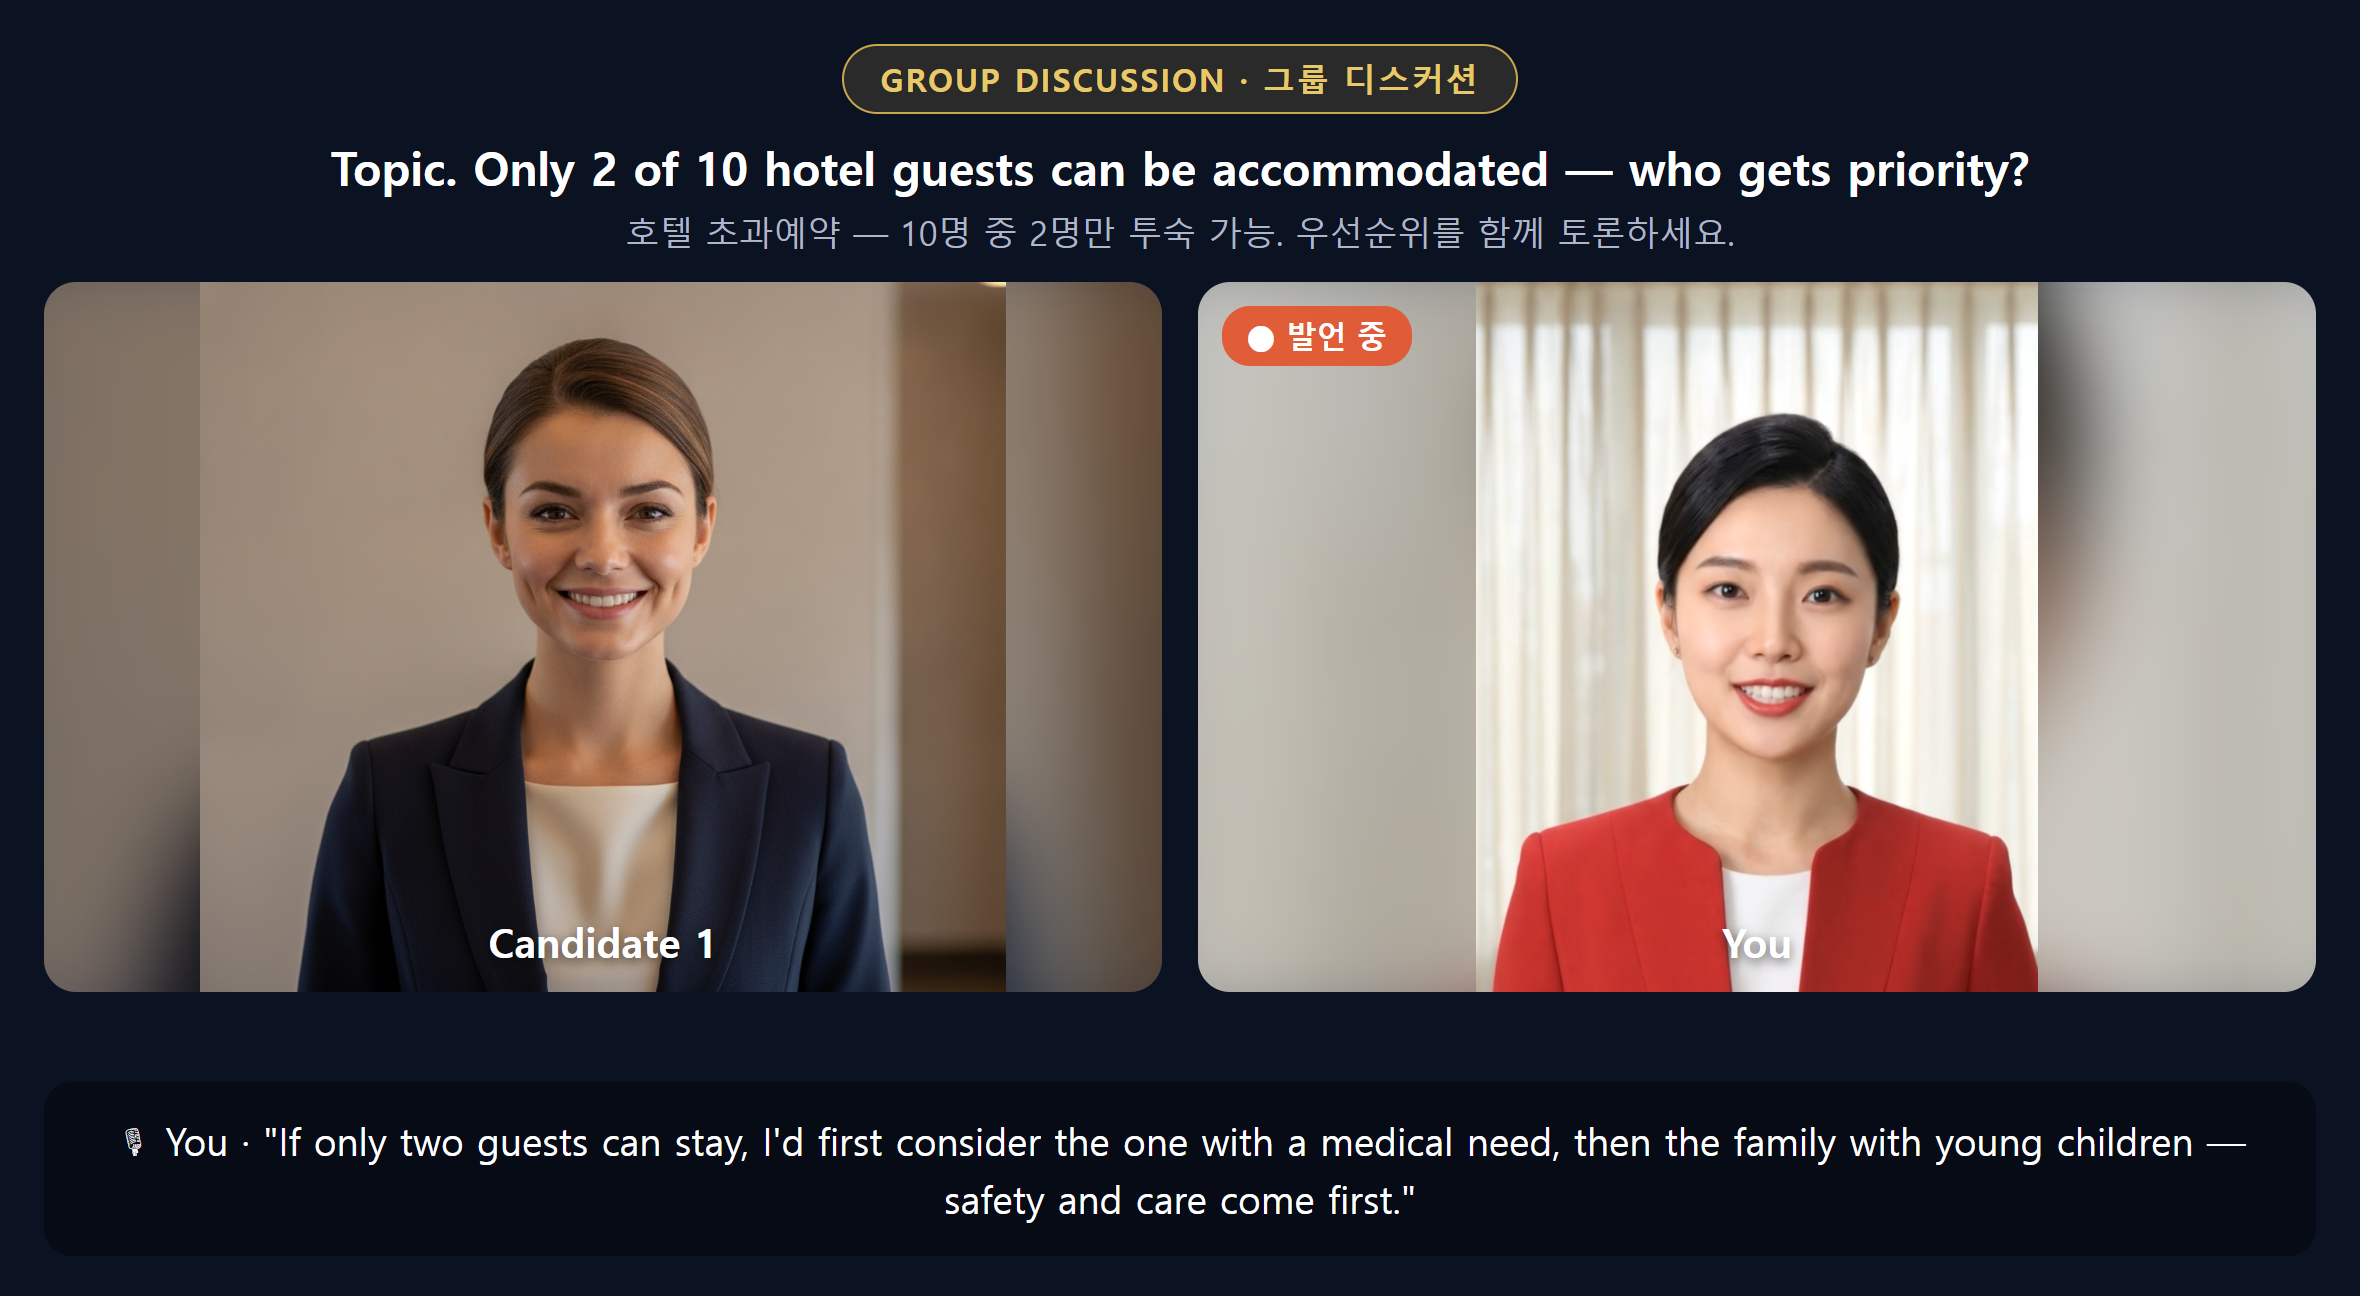
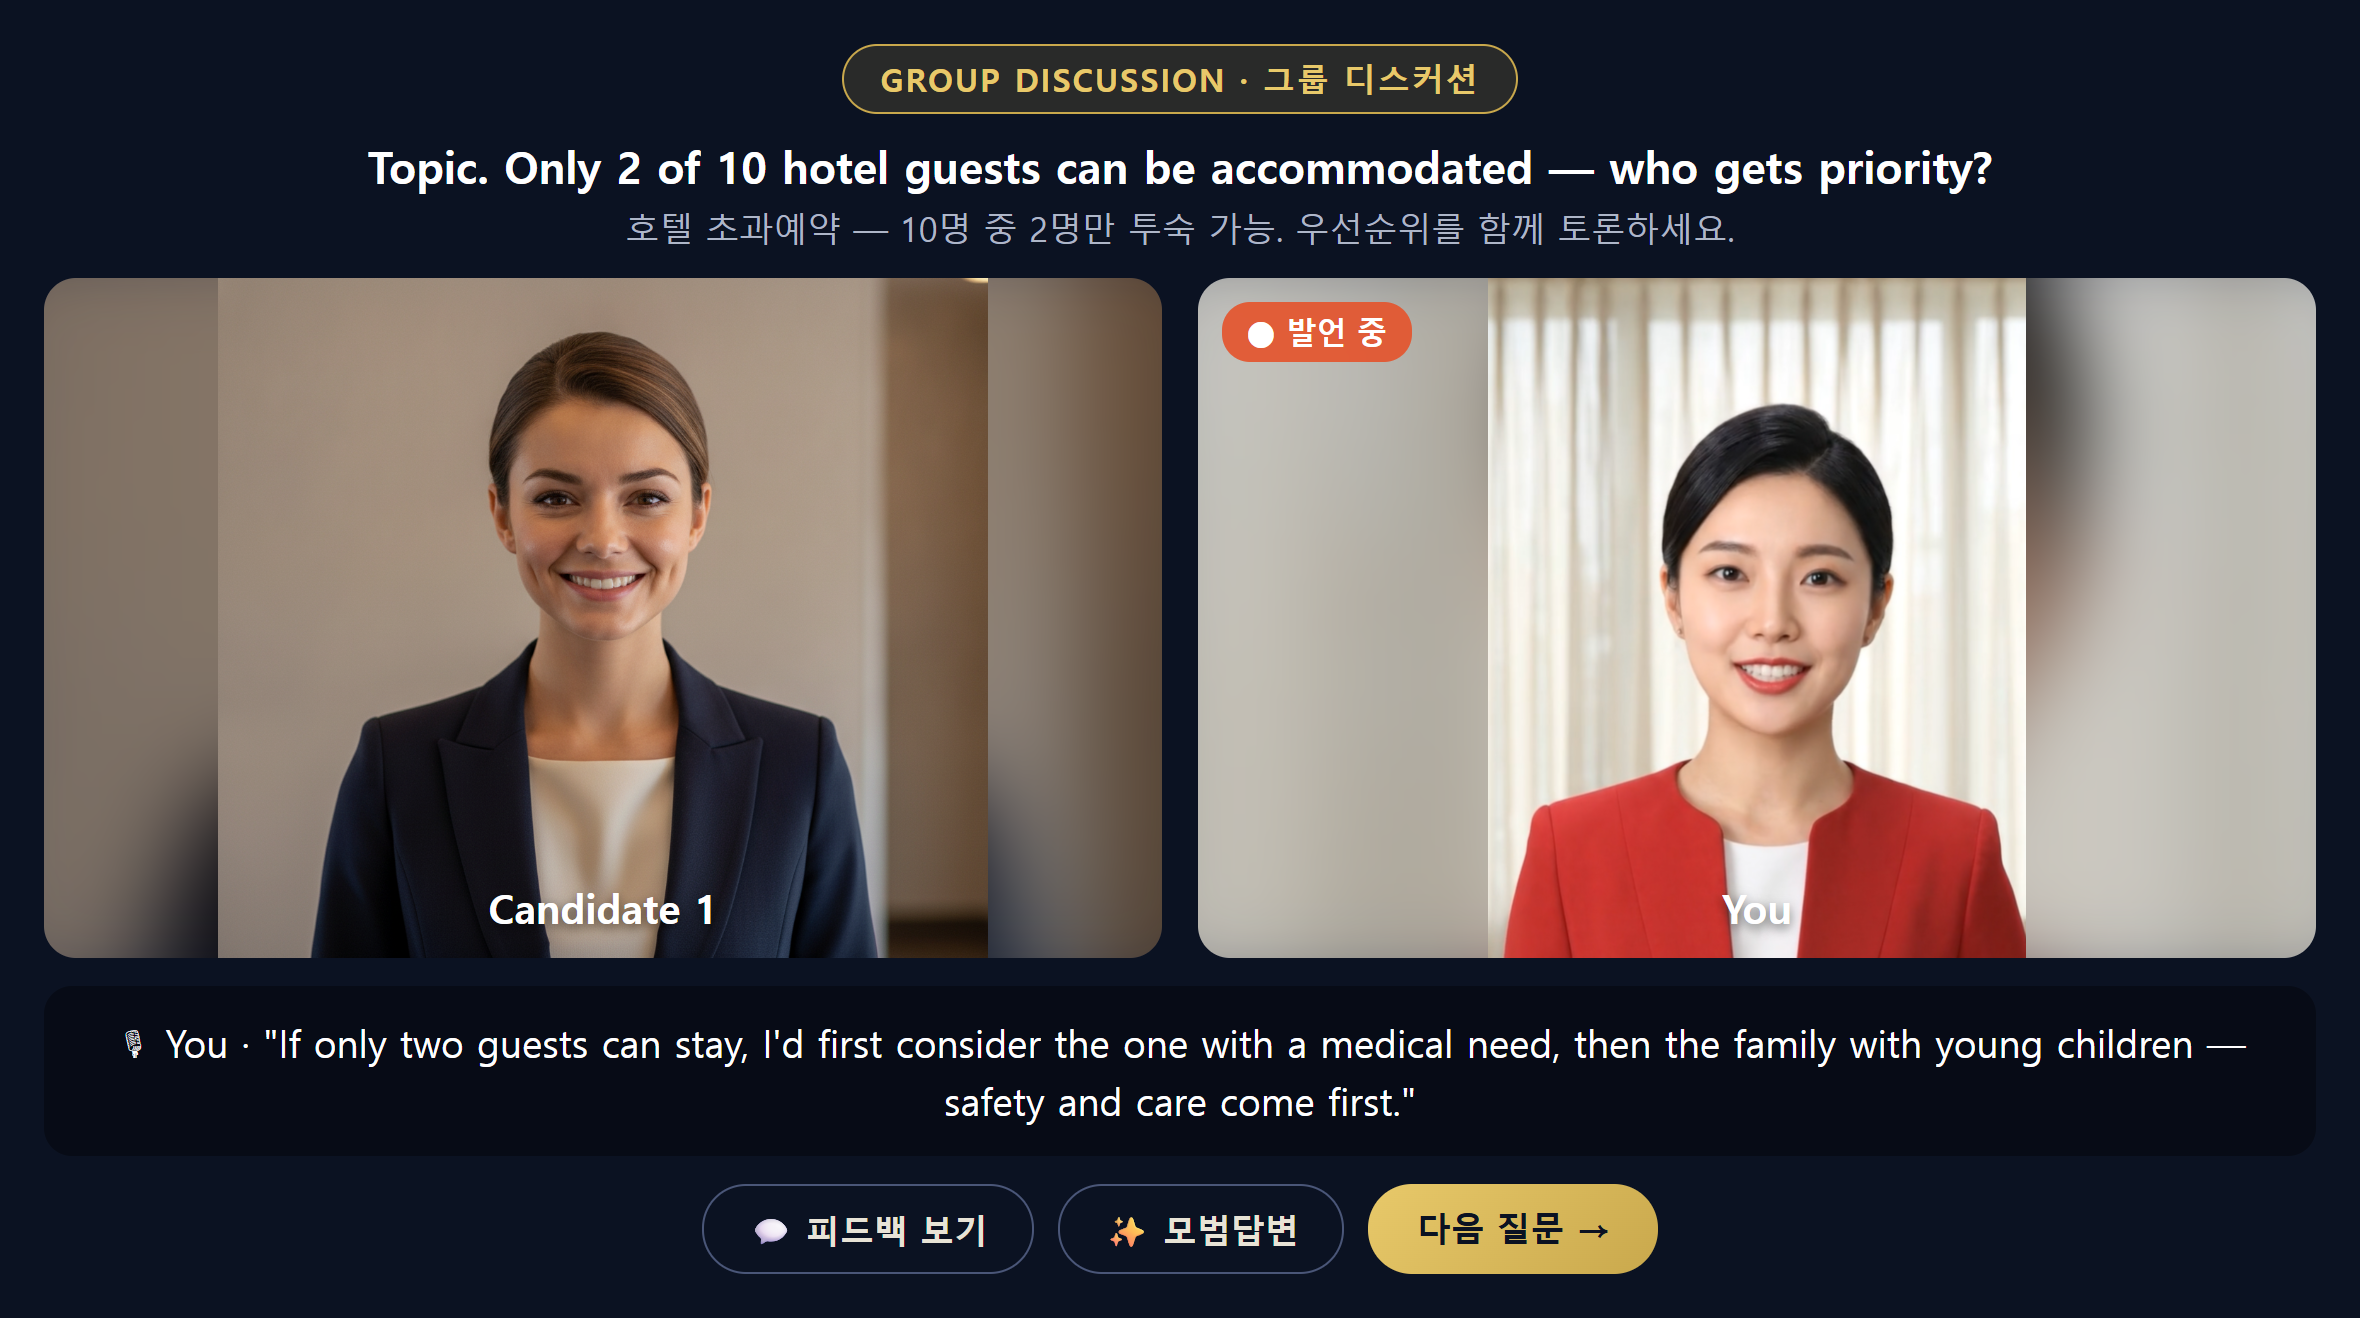
파이널 You 블러로 축소(면접관 얼굴과 크기 맞춤, 면접관 사진·프레임은 그대로) · 화면에 피드백보기·모범답변·다음질문 버튼 추가 · 랜딩 새로고침 상단고정 · 합격생 이야기 후기 3개 추가

Changed region(s): [[0.0, 0.0926, 0.9898, 0.8025], [0.0309, 0.8333, 0.928, 0.9877], [0.3712, 0.0309, 0.6496, 0.0926]]

diff --git a/landing.html b/landing.html
@@ -277,7 +277,7 @@ footer b{color:#fff;}
     <div class="vis-shot" style="margin-top:10px;"><img src="images/shot-disc1.png" alt="1차 디스커션 - 발표 주제와 핵심 포인트 화면"></div>
     <div class="vis-shot" style="margin-top:10px;"><img src="images/shot-disc2.png" alt="2차 디스커션 - 실전 우선순위 토론 시나리오 화면"></div>
     <div class="vis-shot" style="margin-top:10px;"><img src="images/shot-debate.png" alt="싱가포르항공 디베이트 - 주제·입장 선택 화면"></div>
-    <div class="vis-shot" style="margin-top:10px;"><img src="images/shot-discussion-live.png?v=3" alt="그룹 디스커션 실전 - 두 지망생이 주제로 토론하는 실시간 화면"></div>
+    <div class="vis-shot" style="margin-top:10px;"><img src="images/shot-discussion-live.png?v=4" alt="그룹 디스커션 실전 - 두 지망생이 주제로 토론하는 실시간 화면"></div>
     <p>실전 그룹 토론을 항공사별·배경별 시나리오로 연습해요. 발언 순서·논리 전개·매너까지, 그룹 토론에서 평가받는 핵심을 짚어드립니다.</p><div class="card-note"><b>항공사별 디스커션</b>1. Emirates — 1차는 주어진 주제를 정리해 발표, 2차는 실전 기출 상황에서 우선순위를 토론합니다.<br>2. Singapore Airlines — 찬반이 정해지면 AI가 반대 입장에서 맞받아치는 디베이트.<br>3. Qatar — 랜덤 키워드를 받고 즉석에서 1분 영어 발표(워드슈팅).<br>4. 기타 항공사(Etihad·Cathay 등) — 신규 노선·친환경·위기 PR·팀 갈등 등 다양한 기출을 종합 토론.</div>
   </div>
 
@@ -307,7 +307,7 @@ footer b{color:#fff;}
     <h3>파이널 · 종합 분석</h3>
     <div class="vis-shot"><img src="images/Gemini_Generated_Image_9vrkb49vrkb49vrk.png" alt="파이널 종합 분석"></div>
     <div class="vis-shot" style="margin-top:10px;"><img src="images/shot-final.png" alt="파이널 - 면접관·항공사·영어 악센트 선택 화면"></div>
-    <div class="vis-shot" style="margin-top:10px;"><img src="images/shot-final-live.png?v=9" alt="파이널 실전 - 남성 면접관과 베스트 서비스 질문·실시간 자막"></div>
+    <div class="vis-shot" style="margin-top:10px;"><img src="images/shot-final-live.png?v=10" alt="파이널 실전 - 남성 면접관과 베스트 서비스 질문·실시간 자막"></div>
     <p>실전 직전 최종 점검과 종합 실력 분석 리포트, 그리고 1:1 코치 피드백까지. 그동안의 연습을 합격으로 완성하는 마지막 단계예요.</p><div class="card-note"><b>이 기능에서는</b>1. 실전 직전 종합 점검과 그동안의 연습 데이터를 모은 실력 분석 리포트를 받습니다.<br>2. 미소·답변·태도 등 항목별로 부족한 부분을 데이터로 확인해요.<br>3. 마지막은 1:1 코치 피드백으로 실전 준비를 완성합니다.</div>
   </div>
 
@@ -316,7 +316,7 @@ footer b{color:#fff;}
 <!-- 합격생 후기 (⚠ 예시 — 실제 합격생 후기로 교체하세요) -->
 <section class="reviews">
   <div class="eyebrow">Testimonials</div>
-  <h2>합격생의 이야기</h2>
+  <h2>합격생 이야기</h2>
   <div class="review-grid">
     <div class="review"><div class="stars">★★★★★</div><p>“매일 실시간 AI 면접으로 연습하니 실전에서 하나도 안 떨렸어요. 영어 답변이 자연스러워진 게 스스로 느껴질 정도였습니다.”</p><div class="who">이○○ <span>· 카타르항공 합격</span></div></div>
     <div class="review"><div class="stars">★★★★★</div><p>“면접사진부터 영문 CV까지 한 곳에서 준비했어요. 특히 이미지 분석으로 무표정 습관을 잡고 미소를 교정한 게 결정적이었습니다.”</p><div class="who">박○○ <span>· 에미레이트항공 합격</span></div></div>
@@ -324,6 +324,9 @@ footer b{color:#fff;}
     <div class="review"><div class="stars">★★★★★</div><p>“스몰톡 연습에서 오른쪽에 시선 점수가 실시간으로 떠서, 제가 자꾸 아래를 본다는 걸 알았어요. 그거 고치고 인상이 확 달라졌습니다.”</p><div class="who">정○○ <span>· 대한항공 합격</span></div></div>
     <div class="review"><div class="stars">★★★★★</div><p>“메이크업 컬러 찾기로 저한테 맞는 립 색을 미리 골라봤어요. 화장이 붕 뜨지 않으니 사진도, 실물도 훨씬 단정해 보였습니다.”</p><div class="who">최○○ <span>· 진에어 합격</span></div></div>
     <div class="review"><div class="stars">★★★★★</div><p>“워드슈팅으로 순발력을 키우고 디스커션에서 발언 순서를 배웠어요. 그룹 면접에서 제 차례가 왔을 때 자신 있게 말할 수 있었습니다.”</p><div class="who">한○○ <span>· 카타르항공 합격</span></div></div>
+    <div class="review"><div class="stars">★★★★★</div><p>“영상 면접 스몰톡을 반복하니 첫 30초의 긴장이 풀렸어요. 카메라를 보며 웃는 게 자연스러워진 뒤로 인상이 확 달라졌습니다.”</p><div class="who">윤○○ <span>· 에티하드항공 합격</span></div></div>
+    <div class="review"><div class="stars">★★★★★</div><p>“파이널 종합 리포트로 제 약점이 데이터로 보였어요. 실전 직전에 무엇을 보완해야 할지가 분명해져서 마음이 놓였습니다.”</p><div class="who">서○○ <span>· 캐세이퍼시픽 합격</span></div></div>
+    <div class="review"><div class="stars">★★★★★</div><p>“영문 CV를 템플릿으로 하루 만에 완성했어요. 문장이 막힐 때마다 AI가 다듬어줘서 자신 있게 제출할 수 있었습니다.”</p><div class="who">임○○ <span>· 대한항공 합격</span></div></div>
   </section>
 
 <!-- 무료 라이브 신청 폼 -->
@@ -395,5 +398,14 @@ footer b{color:#fff;}
   <b>WonderfulCrew</b> · 에미레이트 7년차 일등석 출신 대표가 만든 승무원 코칭 플랫폼<br>원더풀크루 출신, 10여 개 항공사 현직 승무원들이 어드바이저로 함께합니다<br>© 원더풀크루 · 승무원 합격의 완성
 </footer>
 
+<script>
+/* 새로고침 시 메이크업 iframe이 포커스를 가져가 스크롤되는 것 방지 — 항상 맨 위에서 시작 */
+try{ if('scrollRestoration' in history) history.scrollRestoration='manual'; }catch(e){}
+(function(){
+  function toTop(){ if(!location.hash){ window.scrollTo(0,0); } }
+  toTop();
+  window.addEventListener('load', function(){ toTop(); setTimeout(toTop,60); setTimeout(toTop,250); setTimeout(toTop,700); });
+})();
+</script>
 </body>
 </html>

diff --git a/blog-drafts.html b/blog-drafts.html
@@ -519,7 +519,7 @@ hr{border:none;border-top:1px dashed var(--line);margin:30px 0;}
   <figure><img src="images/shot-disc1.png" alt="1차 디스커션 - 발표 주제와 핵심 포인트"><figcaption>실제 화면 — 1차 디스커션: 발표 주제와 핵심 포인트</figcaption></figure>
   <figure><img src="images/shot-disc2.png" alt="2차 디스커션 - 실전 우선순위 토론 시나리오"><figcaption>실제 화면 — 2차 디스커션: 실전 우선순위 토론 시나리오</figcaption></figure>
   <figure><img src="images/shot-debate.png" alt="싱가포르항공 디베이트 - 주제와 입장 선택"><figcaption>실제 화면 — 싱가포르식 1:1 디베이트: 주제·입장 선택</figcaption></figure>
-  <figure><img src="images/shot-discussion-live.png?v=3" alt="그룹 디스커션 실전 - 두 지망생이 주제로 토론하는 실시간 화면"><figcaption>실제 화면 — 두 지망생이 실시간으로 토론하고, 발언이 자막으로 기록돼요</figcaption></figure>
+  <figure><img src="images/shot-discussion-live.png?v=4" alt="그룹 디스커션 실전 - 두 지망생이 주제로 토론하는 실시간 화면"><figcaption>실제 화면 — 두 지망생이 실시간으로 토론하고, 발언이 자막으로 기록돼요</figcaption></figure>
 
   <h2>⑧ 워드슈팅 — 멈추지 않는 순발력</h2>
   <p>랜덤으로 주어지는 단어나 문장을 받아 60초 안에 즉석에서 영어로 발표해요. 원더풀크루에서는 Qatar처럼 순발력을 보는 면접에 대비하는 즉흥 스피치를, 타이머가 도는 동안 멈추지 않고 말하는 훈련으로 키웁니다.</p>
@@ -534,7 +534,7 @@ hr{border:none;border-top:1px dashed var(--line);margin:30px 0;}
   <p>실전 직전 최종 점검과 종합 실력 분석 리포트, 그리고 1:1 코치 피드백까지. 원더풀크루에서는 그동안의 연습 데이터를 모아 미소·답변·태도를 항목별로 확인하고, 마지막은 코치 피드백으로 실전 준비를 완성합니다.</p>
   <figure><img src="images/Gemini_Generated_Image_9vrkb49vrkb49vrk.png" alt="파이널 종합 분석"></figure>
   <figure><img src="images/shot-final.png" alt="파이널 - 면접관·항공사·영어 엑센트 선택 화면"><figcaption>실제 화면 — 항공사·면접관·엑센트를 골라 실전처럼 마무리해요</figcaption></figure>
-  <figure><img src="images/shot-final-live.png?v=9" alt="파이널 실전 - 남성 면접관과 베스트 서비스 질문·실시간 자막"><figcaption>실제 화면 — 실전처럼 질문을 받고, 답변이 자막으로 실시간 기록돼요</figcaption></figure>
+  <figure><img src="images/shot-final-live.png?v=10" alt="파이널 실전 - 남성 면접관과 베스트 서비스 질문·실시간 자막"><figcaption>실제 화면 — 실전처럼 질문을 받고, 답변이 자막으로 실시간 기록돼요</figcaption></figure>
 
   <hr>
   <p>사진 한 장부터 마지막 1:1 면접까지 — 흩어져 있던 준비를 한 곳에서, 매일 조금씩. 원더풀크루에서는 그 전 과정을 실제 화면으로 직접 연습하며 합격까지 함께 걸어드릴게요.</p>
